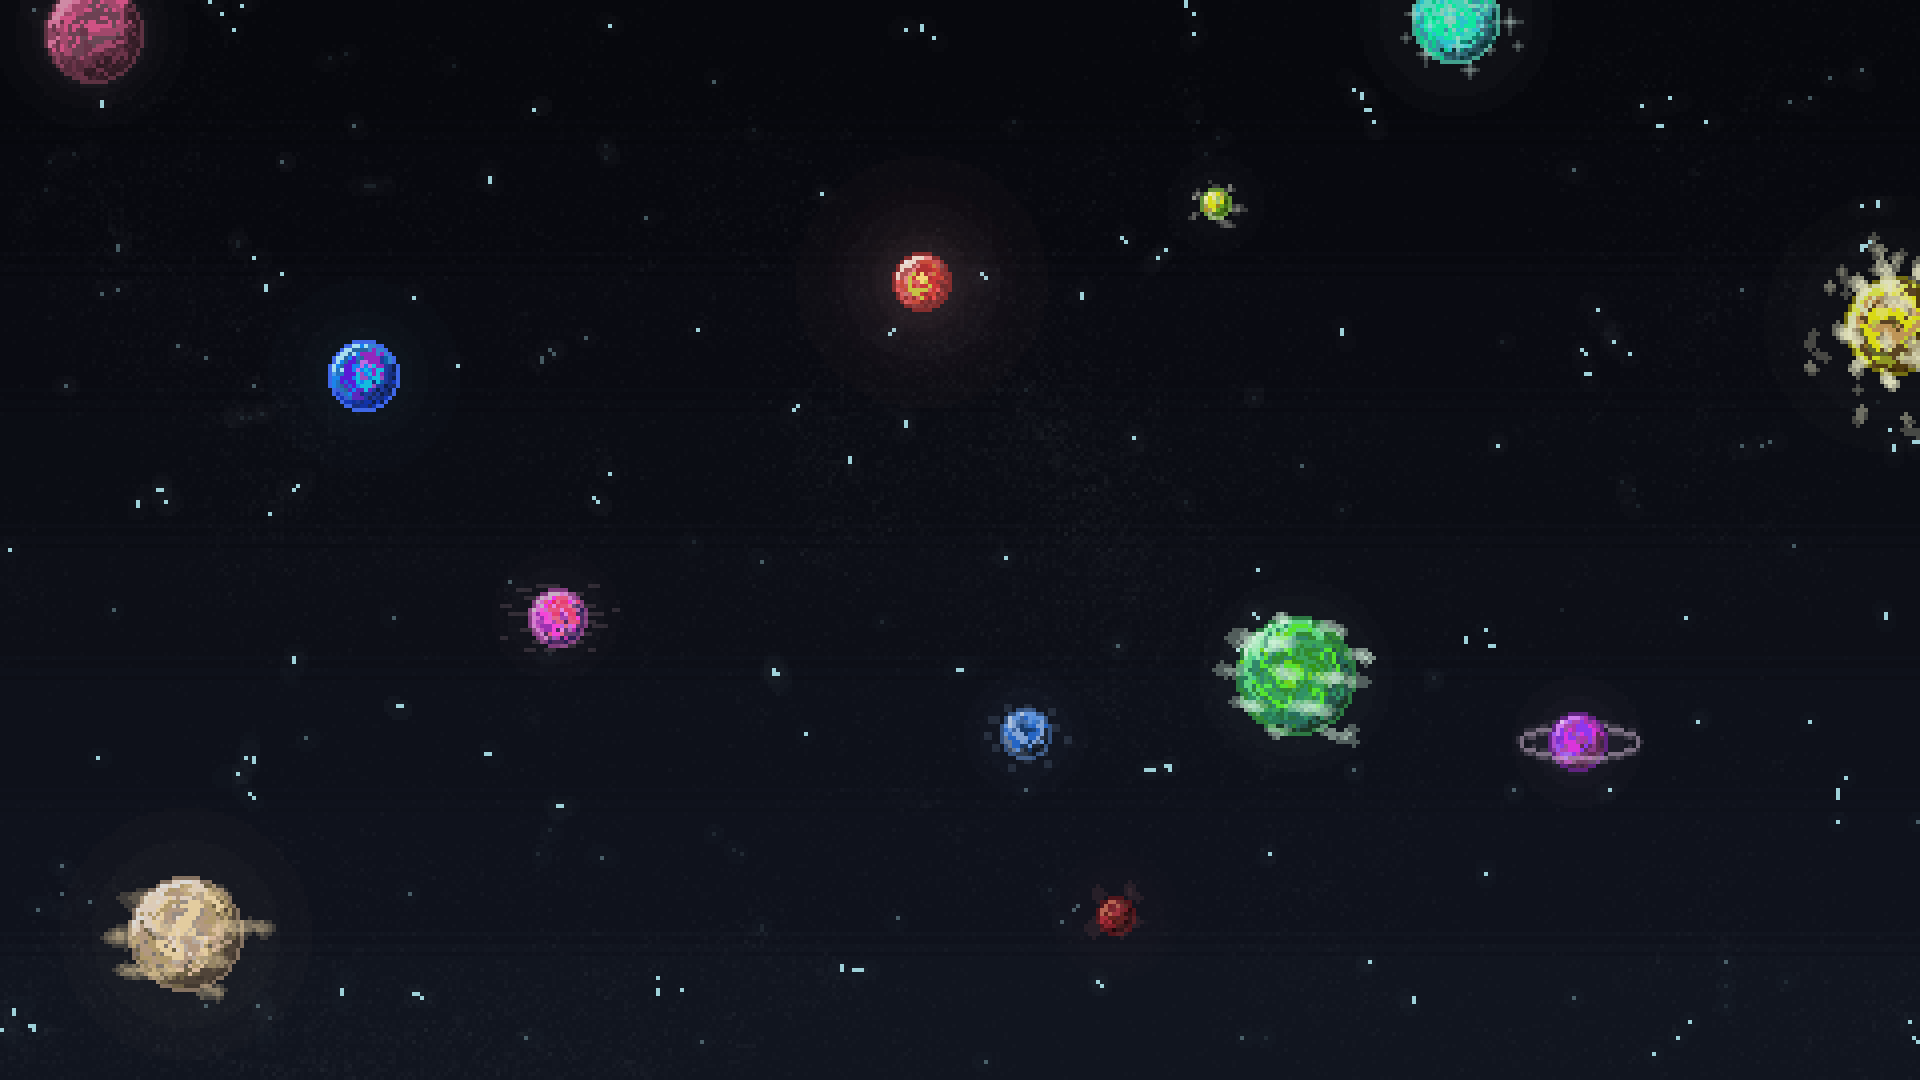
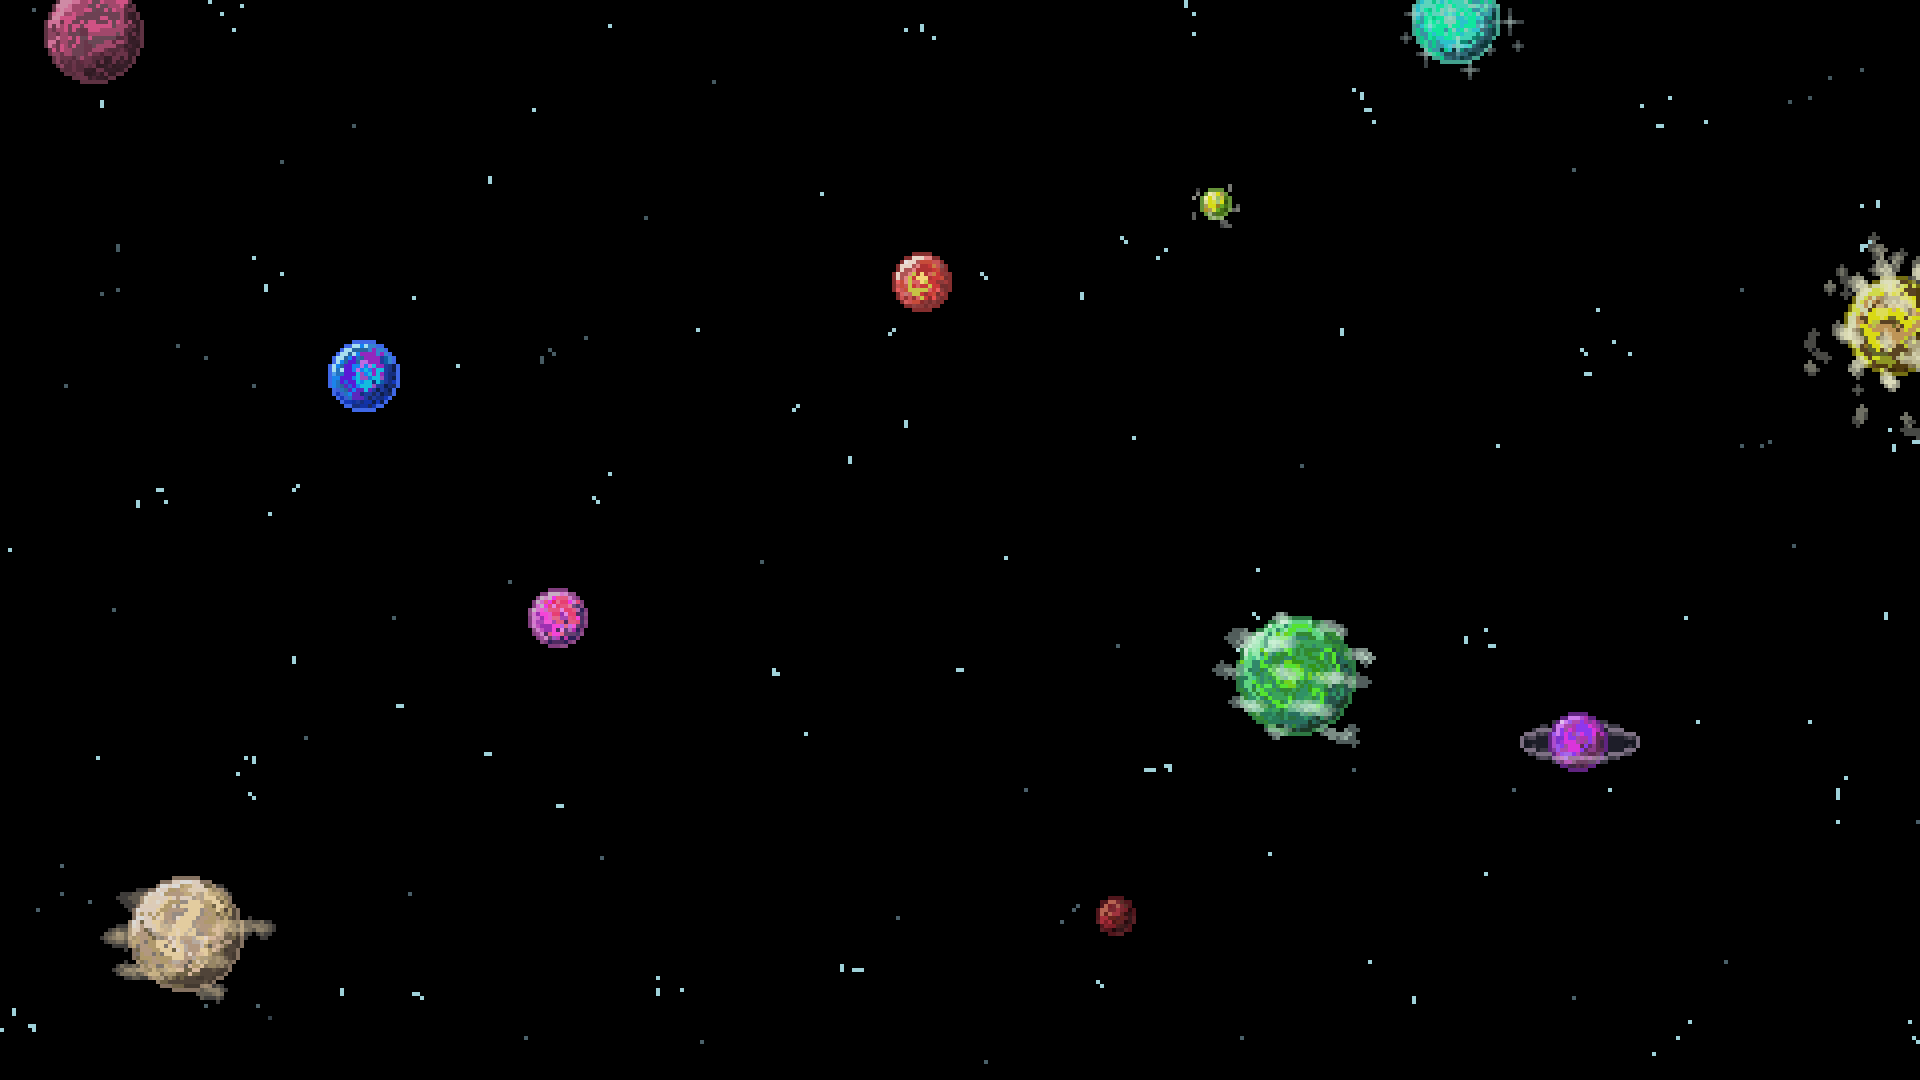
minor ui improvements
canvas and assets changed

diff --git a/src/logic/GameEngine.java b/src/logic/GameEngine.java
@@ -42,6 +42,7 @@ public class GameEngine extends Application{
 	
 	
 	private static GameEngine game = new GameEngine();
+	private HighScoreManager highscoreManager;
 	
 	// GUI ELEMENTS
 	private Scene main;
@@ -61,23 +62,22 @@ public class GameEngine extends Application{
 	private Canvas minicanvas_left;
 	private Canvas minicanvas_middle;
 	private Canvas minicanvas_right;
-	private Line separator_Hline;
-	private Line separator_Vline1;
-	private Line separator_Vline2;
 	private Background background;
 	private Font font,font2;
 	private StackPane layout;
 	private ObservableList<Node> layoutStack;
 	private Label planet_label;
-	private ImageView b_img;
-
-	private Label play_label;
-
+	private Image littleShip_img,bomb_img,playBG_img;
+	private String scores;
+	private Label scores_label;
+	private Label credNames_label;
 	private Font fontButton;
 	
 	@Override
 	public void init() throws Exception{
 		System.out.println("Game - initializing ui widgets & layouts");
+		highscoreManager = HighScoreManager.getInstance();
+		scores = highscoreManager.readHighScoreFile();
 	}
 	
 	
@@ -135,15 +135,20 @@ public class GameEngine extends Application{
                                              BackgroundRepeat.NO_REPEAT,  
                                              BackgroundRepeat.NO_REPEAT,  
                                              BackgroundPosition.DEFAULT,  
-                                                BackgroundSize.DEFAULT); 
+                                             new BackgroundSize(1.0, 1.0, true, true, false, false)); 
   
             // create Background 
-            background = new Background(backgroundimage); 
+            background = new Background(backgroundimage);    
             
-            FileInputStream input =new FileInputStream("./assets/buttonSprite.png");  
-            Image button_img = new Image(input);  
-            b_img =new ImageView(button_img); 
+            // image files
+            FileInputStream litteship_file = new FileInputStream("./assets/littleship.png");
+            littleShip_img = new Image(litteship_file); 
             
+            FileInputStream bomb_file = new FileInputStream("./assets/bomb.png");
+            bomb_img = new Image(bomb_file); 
+            
+            FileInputStream playBG_file = new FileInputStream("./assets/playBG.png");
+            playBG_img = new Image(playBG_file); 
             
 	      } catch (FileNotFoundException e) {
 	        e.printStackTrace();
@@ -164,6 +169,7 @@ public class GameEngine extends Application{
         minicanvas_middle = new Canvas(minicanvas_w_middle, minicanvas_h);
         minicanvas_right = new Canvas(minicanvas_w_right, minicanvas_h);
         
+        
 		
         // set GraphicsContext object
         g = canvas.getGraphicsContext2D();
@@ -171,35 +177,66 @@ public class GameEngine extends Application{
         mini_g_middle = minicanvas_middle.getGraphicsContext2D();
         mini_g_right = minicanvas_right.getGraphicsContext2D();
         
+       
+        
         // separator
-        separator_Hline = new Line(0, minicanvas_h-4, width, minicanvas_h-4);
-        separator_Hline.setStroke(Color.BLUE);
-        separator_Hline.setStrokeWidth(4);
+//        separator_Hline = new Line(0, minicanvas_h-4, width, minicanvas_h-4);
+//        separator_Hline.setStroke(Color.GRAY);
+//        separator_Hline.setStrokeWidth(4);
         
-        separator_Vline1 = new Line(minicanvas_w_left, 0,minicanvas_w_left , minicanvas_h-4);
-        separator_Vline1.setStroke(Color.BLUE);
-        separator_Vline1.setStrokeWidth(4);
-        
-        separator_Vline2 = new Line(minicanvas_w_middle+minicanvas_w_left, 0,minicanvas_w_middle+minicanvas_w_left, minicanvas_h-4);
-        separator_Vline2.setStroke(Color.BLUE);
-        separator_Vline2.setStrokeWidth(4);
+//        separator_Vline1 = new Line(minicanvas_w_left, 0,minicanvas_w_left , minicanvas_h-4);
+//        separator_Vline1.setStroke(Color.GRAY);
+//        separator_Vline1.setStrokeWidth(4);
+//        
+//        separator_Vline2 = new Line(minicanvas_w_middle+minicanvas_w_left, 0,minicanvas_w_middle+minicanvas_w_left, minicanvas_h-4);
+//        separator_Vline2.setStroke(Color.GRAY);
+//        separator_Vline2.setStrokeWidth(4);
         
         
         // set colors for graphics contexts for all canvas
-        g.setFill(Color.GRAY);
+        g.setFill(Color.BLACK);
         g.fillRect(0, 0, canvas_w, canvas_h);
+        
         mini_g_left.setFill(Color.BLACK);
         mini_g_left.fillRect(0, 0, minicanvas_w_left, minicanvas_h);
-        mini_g_middle.setFill(Color.GREEN);
-        mini_g_middle.fillRect(0, 0, minicanvas_w_middle, minicanvas_h);
+        
+        
         mini_g_right.setFill(Color.BLACK);
         mini_g_right.fillRect(0, 0, minicanvas_w_right, minicanvas_h);
+        
+        
+        mini_g_middle.setFill(Color.BLACK);
+        mini_g_middle.fillRect(0, 0, minicanvas_w_middle, minicanvas_h);
+        mini_g_middle.setStroke(Color.GRAY);
+        mini_g_middle.setLineWidth(4);
+        mini_g_middle.strokeLine(0, 0, 0, minicanvas_h);
+        mini_g_middle.strokeLine(minicanvas_w_middle, 0, minicanvas_w_middle, minicanvas_h);
+
+        
+
+        
+        // draw Graphics
+        mini_g_left.drawImage(littleShip_img, 20, 20);
+        mini_g_left.drawImage(littleShip_img, 80, 20);
+        mini_g_left.drawImage(littleShip_img, 140, 20);
+        
+        mini_g_left.drawImage(bomb_img, minicanvas_w_left-48,minicanvas_h-32 );
+        mini_g_left.drawImage(bomb_img, minicanvas_w_left-48,minicanvas_h-32-32);
+        mini_g_left.drawImage(bomb_img, minicanvas_w_left-48,minicanvas_h-32-32-32);
+        
+        // draw background and horizontal gray line
+        g.drawImage(playBG_img, 0, 0,width,height);
+        g.setStroke(Color.GRAY);
+        g.setLineWidth(4);
+        g.strokeLine(0, 0, width, 0);
+        
+ 
         
         // push in layout
 		topHBox = new HBox();
 		layoutPlay = new VBox();
-        topHBox.getChildren().addAll(minicanvas_left,separator_Vline1,minicanvas_middle,separator_Vline2,minicanvas_right);
-        layoutPlay.getChildren().addAll(topHBox,separator_Hline,canvas);
+        topHBox.getChildren().addAll(minicanvas_left,minicanvas_middle,minicanvas_right);
+        layoutPlay.getChildren().addAll(topHBox,canvas);
 	}
 	
 	private void view_MainMenu() {
@@ -269,7 +306,7 @@ public class GameEngine extends Application{
 		creditsB = new Button("> CREDITS");
 		creditsB.setMnemonicParsing(true);
 		creditsB.setFont(fontButton);
-		creditsB.setTextFill(Color.web("#b33434"));
+		creditsB.setTextFill(Color.web("#b33434")); //selected color: #ff5e5e
 		creditsB.setMaxWidth(300);
 		creditsB.setWrapText(true);
 		creditsB.setPadding(Insets.EMPTY);
@@ -307,6 +344,10 @@ public class GameEngine extends Application{
 		cred_label.setFont(font);
 		cred_label.setTextFill(Color.web("#ffd500"));
 		
+		credNames_label = new Label("Gurkan Gur\nUmut Balkan");
+		credNames_label.setFont(fontButton);
+		credNames_label.setTextFill(Color.web("#ffd500"));
+		
 		backB = new Button("> BACK");
 		backB.setMnemonicParsing(true);
 		backB.setFont(fontButton);
@@ -326,7 +367,7 @@ public class GameEngine extends Application{
 		layoutCredits = new VBox(20);
 		layoutCredits.setBackground(background);
 		layoutCredits.setAlignment(Pos.CENTER);
-		layoutCredits.getChildren().addAll(cred_label, backB);
+		layoutCredits.getChildren().addAll(cred_label,credNames_label, backB);
 	}
 	
 	private void view_SettingsMenu() {
@@ -361,6 +402,10 @@ public class GameEngine extends Application{
 		high_label.setFont(font);
 		high_label.setTextFill(Color.web("#ffd500"));
 		
+		scores_label = new Label(scores);
+		scores_label.setFont(fontButton);
+		scores_label.setTextFill(Color.web("#ffd500"));
+		
 		backB2 = new Button("> BACK");
 		backB2.setMnemonicParsing(true);
 		backB2.setFont(fontButton);
@@ -380,7 +425,7 @@ public class GameEngine extends Application{
 		layoutHighscores = new VBox(20);
 		layoutHighscores.setBackground(background);
 		layoutHighscores.setAlignment(Pos.CENTER);
-		layoutHighscores.getChildren().addAll(high_label, backB2);
+		layoutHighscores.getChildren().addAll(high_label, scores_label, backB2);
 		
 	}
 	

diff --git a/src/io/HighScoreManager.java b/src/io/HighScoreManager.java
@@ -27,7 +27,7 @@ public class HighScoreManager{
       writer = new FileWriter(file); 
       
       // Writes the content to the file
-      writer.write("gurkan\n5\nsumut\n1\nDoe\n14"); 
+      writer.write("John 450\nAlex 350\nIgor 340\nMatt 300\nJosh 275\nWalt 255\nSasa 185"); 
       writer.flush();
       writer.close();
       }
